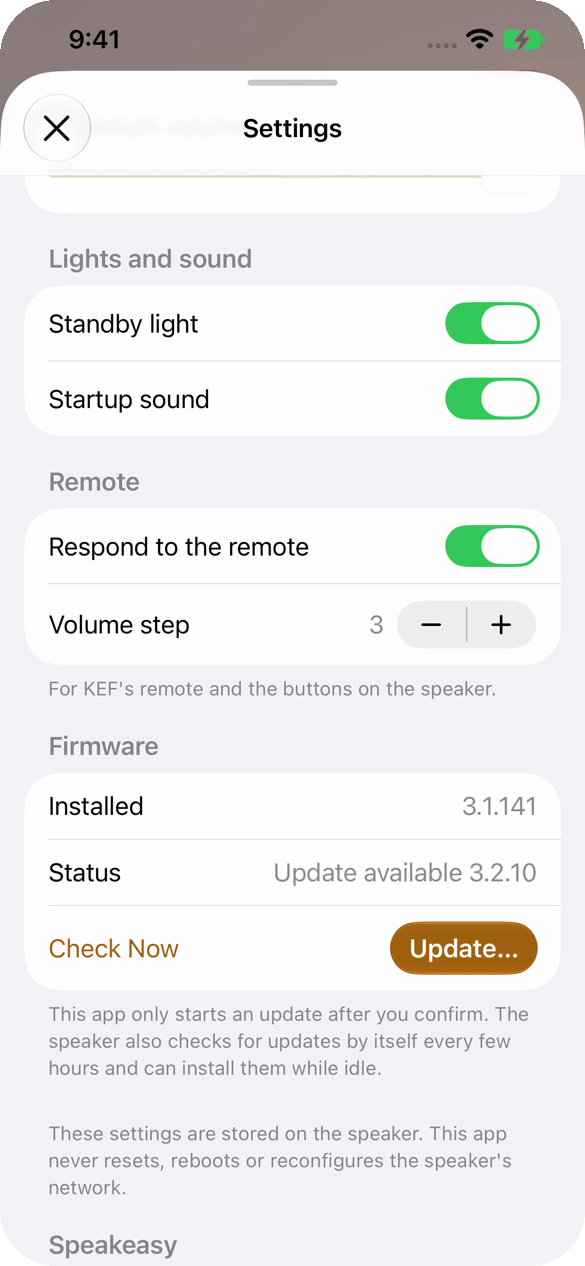
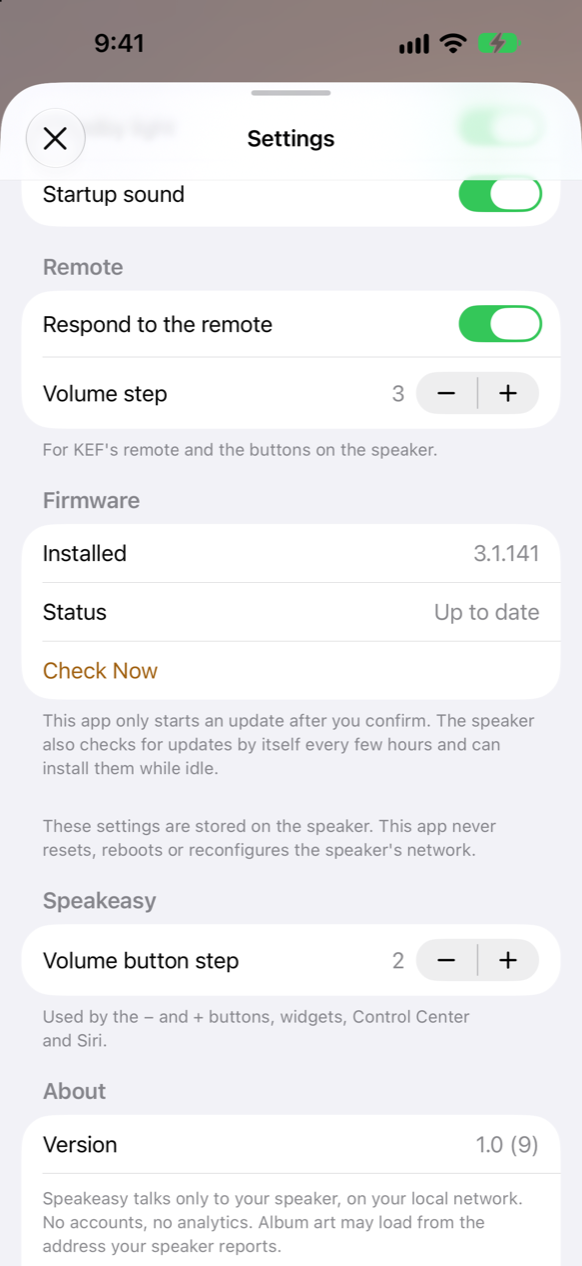
README: Speakeasy is submitted to the App Store (#9)
The iPhone section says the app is waiting for App Store review (with
links to the website, support and privacy pages), building it yourself
is now the alternative, and the FAQ answers whether it's on the App
Store. The Settings and Duo screenshots are refreshed from the App
Store set (firmware up to date; the Duo's vertical bar as shipped), and
the widget line says only the medium widget has volume buttons.

diff --git a/README.md b/README.md
@@ -38,15 +38,20 @@ playing on one screen, the speaker's EQ and settings a tap away, plus Home Scree
 Control Center controls and Siri. Like the Mac app, it talks straight to the speaker on your
 Wi-Fi network, with no account and nothing in between.
 
+It has been **submitted to the App Store** as *Speakeasy: Hi-Fi Remote*; the link goes here
+once Apple approves it. [Website](https://zalberico.com/kef-menubar/) ·
+[Support](https://zalberico.com/kef-menubar/support/) ·
+[Privacy](https://zalberico.com/kef-menubar/privacy/)
+
 <table>
   <tr>
     <td align="center" width="25%"><img src="docs/screenshots/01-remote.png" width="180" alt="Speakeasy's remote: speaker name and input at the top, album art, track title and artist, play controls, the volume card at 24, the input tiles with Wi-Fi selected, and Sound and Settings buttons"><br><sub>Remote</sub></td>
     <td align="center" width="25%"><img src="docs/screenshots/02-no-artwork-dark.png" width="180" alt="The remote in dark mode on the TV input: the speaker cabinet on a teal tile in place of album art, with Playing from TV"><br><sub>TV input, dark mode</sub></td>
     <td align="center" width="25%"><img src="docs/screenshots/03-sound.png" width="180" alt="The Sound panel's subwoofer section: number of subs, sub level, sub model KEF KC62, sub crossover, speaker high-pass, sub polarity and subwoofer output"><br><sub>Sound</sub></td>
-    <td align="center" width="25%"><img src="docs/screenshots/04-settings.png" width="180" alt="The Settings panel: standby light, startup sound, the remote's options, and Firmware with the installed version, an available update, Check Now and Update"><br><sub>Settings</sub></td>
+    <td align="center" width="25%"><img src="docs/screenshots/04-settings.png" width="180" alt="The Settings panel: standby light, startup sound, the remote's options, and Firmware with the installed version, up to date, and Check Now"><br><sub>Settings</sub></td>
   </tr>
   <tr>
-    <td colspan="2" align="center"><img src="docs/screenshots/06-duo-open.png" width="380" alt="iPhone Duo open: the remote on the left, the Sound panel on the right, and a vertical bar of controls along the right edge"><br><sub>iPhone Duo, open: remote and Sound side by side</sub></td>
+    <td colspan="2" align="center"><img src="docs/screenshots/06-duo-open.png" width="380" alt="iPhone Duo open: the remote on the left, the Sound panel on the right, and a vertical bar of controls (mute, power, Sound, Settings, speakers) along the right edge"><br><sub>iPhone Duo, open: remote and Sound side by side</sub></td>
     <td colspan="2" align="center"><img src="docs/screenshots/07-duo-closed.png" width="184" alt="iPhone Duo closed: the compact remote with the vertical bar holding mute, power, Sound, Settings and speakers"><br><sub>iPhone Duo, closed</sub></td>
   </tr>
   <tr>
@@ -65,8 +70,8 @@ Wi-Fi network, with no account and nothing in between.
   balance, phase correction, and the subwoofer section with KEF's sub presets
 - **Settings:** the speaker's name, standby and wake, startup volume, volume limit, lights,
   the remote, and firmware (check, and install after you confirm)
-- **Widgets and controls:** a small and a medium Home Screen widget with volume buttons,
-  Lock Screen widgets, and three controls (power, mute, input) for Control Center, the
+- **Widgets and controls:** a small and a medium Home Screen widget (the medium one has
+  volume buttons), Lock Screen widgets, and three controls (power, mute, input) for Control Center, the
   Lock Screen or the Action button
 - **Siri and Shortcuts:** "Turn up Speakeasy", "Mute Speakeasy", "Switch Speakeasy to TV",
   "Turn on Speakeasy", plus actions for set volume, standby, play/pause and next/previous
@@ -78,8 +83,9 @@ Wi-Fi network, with no account and nothing in between.
 
 **Install**
 
-TestFlight is private for now, so to use it you build it yourself. It needs **Xcode 27.1
-or later**, and runs on **iOS 26 or later**.
+Speakeasy is waiting for App Store review; once it's approved, install it from the App Store.
+Until then, or if you'd rather, you can build it yourself. It needs **Xcode 27.1 or later**,
+and runs on **iOS 26 or later**.
 
 1. Open `iOS/Remote.xcodeproj` in Xcode.
 2. Create `iOS/Config/Local.xcconfig` (it's gitignored) with your own team and
@@ -302,11 +308,11 @@ even if its IP address changes. The iPhone app keeps a list of the speakers it h
 connected to, and you switch between them from the speaker's name at the top of the remote.
 Its widgets, controls and Siri act on the speaker you picked last.
 
-**Why not the App Store?** For the Mac it hasn't been needed. The releases here are signed
-with Developer ID and notarized by Apple, which is all macOS needs to open them without a
-warning. An iPhone app can only come from the App Store, TestFlight or your own Xcode.
-Speakeasy is in a private TestFlight for now and may come to the App Store later; until
-then, [build it yourself](#iphone-app-speakeasy).
+**Is it on the App Store?** The iPhone app has been submitted as *Speakeasy: Hi-Fi
+Remote* and will be there once Apple approves it. A Mac App Store version of the menu bar
+app is in the works. In the meantime the Mac releases here are signed with Developer ID,
+notarized by Apple and keep themselves up to date, which is all macOS needs to open them
+without a warning.
 
 ## How it works
 
